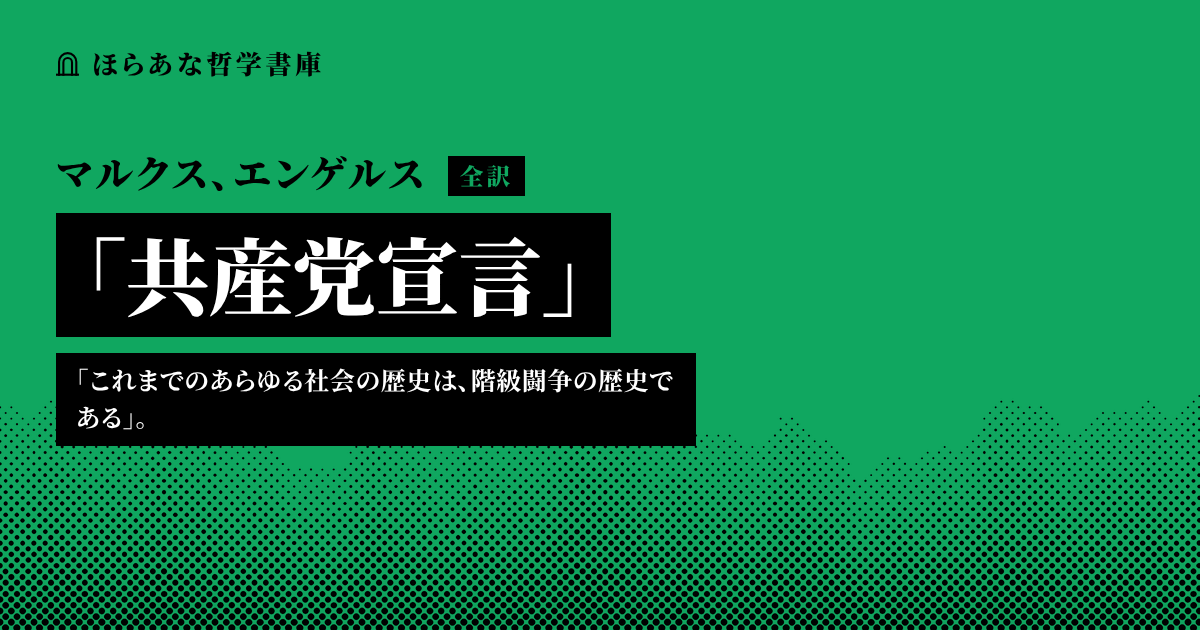
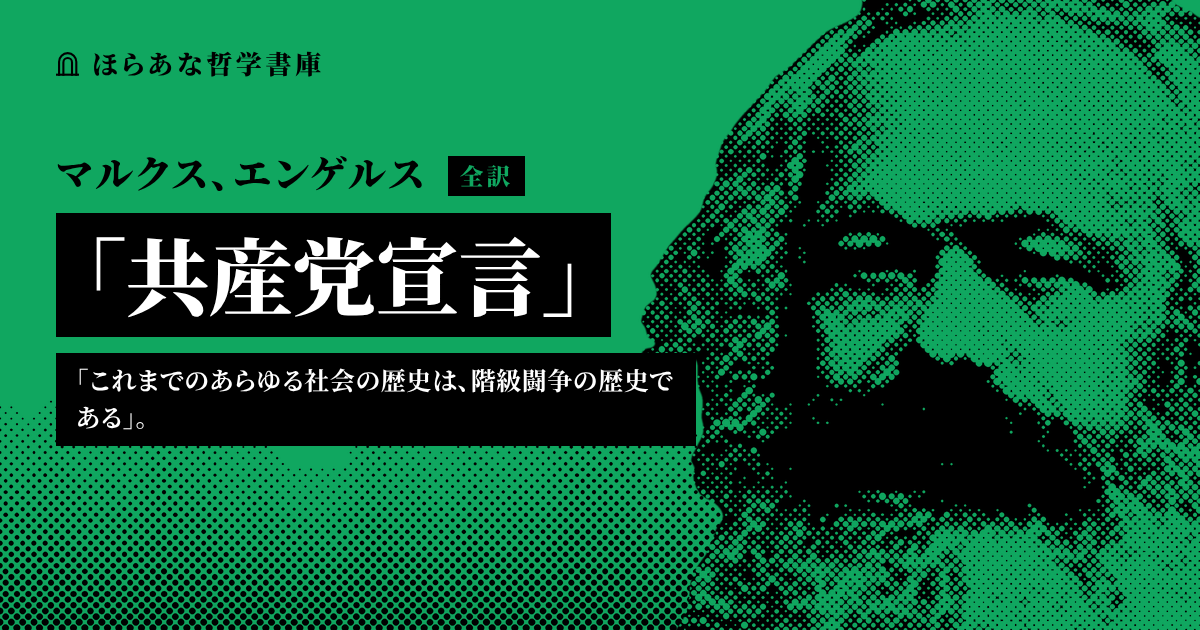
『共産党宣言』の表紙と OGP 画像にマルクスの肖像を入れる
Claude-Session: https://claude.ai/code/session_01SC2TMcofokKbUp6p1YY4LB

Changed region(s): [[0.5242, 0.0, 1.0, 1.0], [0.4933, 0.573, 0.5242, 0.6333]]

diff --git a/site.css b/site.css
@@ -250,7 +250,7 @@ footer {
 /* 表紙の色。_works/works.json の genre(genres の色)から作る */
 /* ここから自動生成(_tools/build.mjs) */
 .book-cover[data-cover="kant-aufklaerung"] { --cover: #139cb6; background-image: url(art/kant-cover.png); }
-.book-cover[data-cover="marx-manifest"] { --cover: #10a760; }
+.book-cover[data-cover="marx-manifest"] { --cover: #10a760; background-image: url(art/marx-cover.png); }
 .book-cover[data-cover="freud-difficulty"] { --cover: #dfb100; background-image: url(art/freud-cover.png); }
 /* ここまで自動生成 */
 
